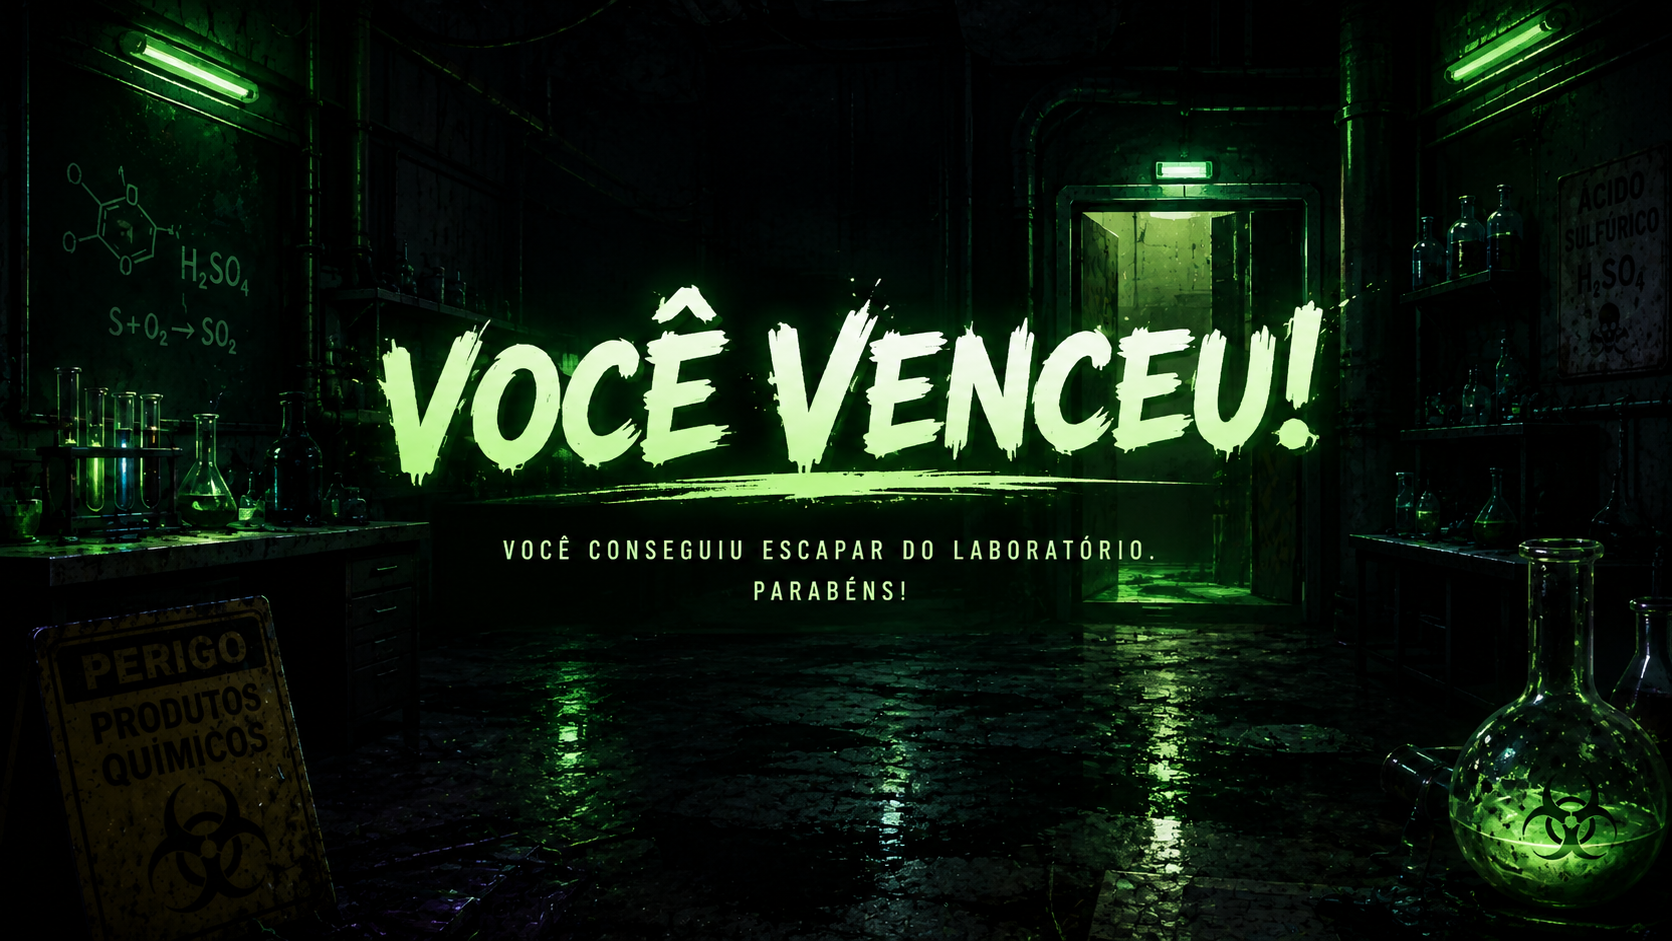
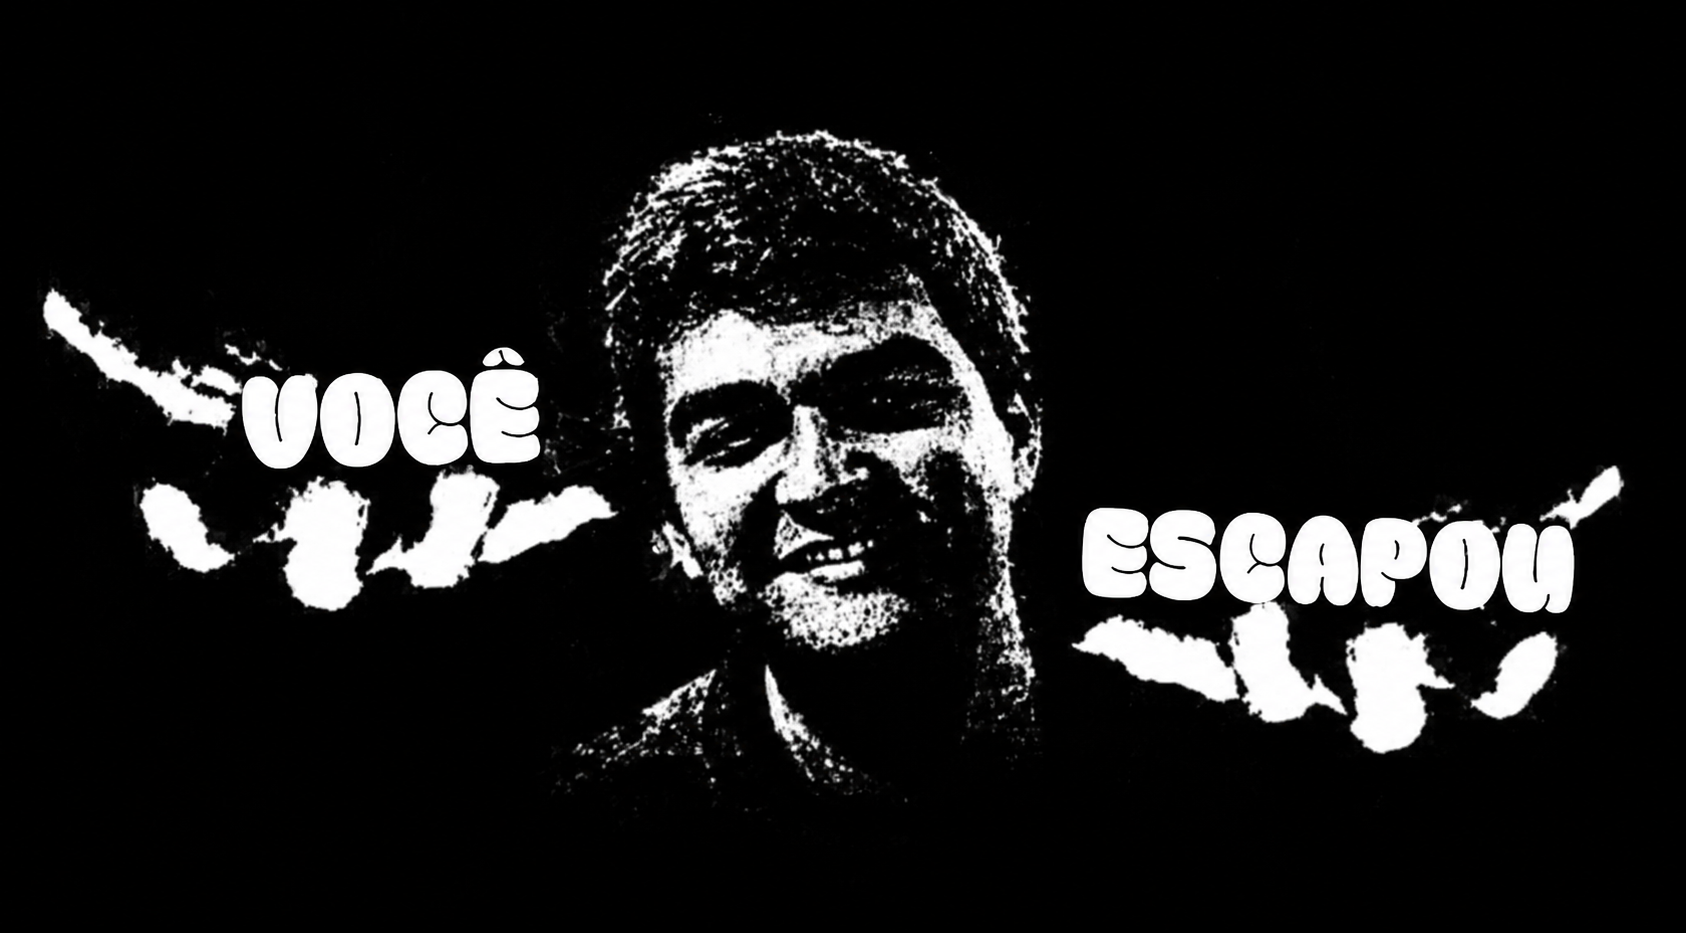
adicionando a tela de vitória, mais elementos químicos e posicionando-os em seus lugares

diff --git a/jogo/sistema_itens_mistura/icones.py b/jogo/sistema_itens_mistura/icones.py
@@ -16,6 +16,10 @@ MAPA_ARQUIVOS = {
     "Sódio": "sodio.png",
     "Água": "agua.png",
     "Bromo": "bromo.png",
+    "Ferro": "ferro.png",
+    "Rubídio": "rubidio.png",
+    "Nitrogênio": "nitrogenio.png",
+    "Aldeído": "aldeido.png",
     "Dióxido de Enxofre": "dioxidoEnxofre.png",
     "Trióxido de Enxofre": "trioxidoEnxofre.png",
     "Ácido Sulfúrico": "AcidoSulfurico.png",
@@ -27,11 +31,33 @@ def _criar_icone_padrao(tamanho):
     pygame.draw.rect(superficie, (150,150,150), (0,0, tamanho, tamanho), border_radius=6)
     return superficie
 
-def obter_icone(nome, tamanho=40):
+def _padronizar_icone(original, tamanho):
+    mascara = pygame.mask.from_surface(original)
+    area = mascara.get_bounding_rects()
+
+    if not area:
+        return _criar_icone_padrao(tamanho)
+
+    area = area[0]
+
+    icone = original.subsurface(area).copy()
+    tamanho_desenho = int(tamanho * 0.50)
+    largura, altura = icone.get_size()
+    escala = min(tamanho_desenho / largura, tamanho_desenho / altura)
+    nova_largura = max(1, int(largura * escala))
+    nova_altura = max(1, int(altura * escala))
+    icone = pygame.transform.smoothscale(icone, (nova_largura, nova_altura))
+    superficie = pygame.Surface((tamanho, tamanho), pygame.SRCALPHA)
+    x = (tamanho - nova_largura) //2 
+    y= (tamanho - nova_altura) // 2
+    superficie.blit(icone, (x, y))
+    return superficie
+
+def obter_icone(nome, tamanho=40, reduzir=True):
     #retorna icone correspondente ao item
     #se o icone ja tiver sido carregado anteriormente, usa a versao armazenada no cache
     #caso o item não possua imagem cadastrada, retorna um ícone padrão
-    chave = (nome, tamanho)
+    chave = (nome, tamanho, reduzir)
 
     if chave in _cache_icones:
         return _cache_icones[chave]
@@ -53,7 +79,10 @@ def obter_icone(nome, tamanho=40):
             superficie = _criar_icone_padrao(tamanho)
 
         else:
-            superficie = pygame.transform.smoothscale(original,(tamanho, tamanho))
+            if reduzir:
+                superficie = _padronizar_icone(original, tamanho)
+            else:
+                superficie = pygame.transform.smoothscale(original, (tamanho, tamanho))
 
     _cache_icones[chave] = superficie
 

diff --git a/jogo/game.py b/jogo/game.py
@@ -87,16 +87,8 @@ class Game:
         )
 
         self.itens = [
-            Item("Hidrogênio", 290, 300),
-            Item("Oxigênio", 520, 510),
-            Item("Oxigênio", 352, 644),
-            Item("Oxigênio", 296, 236),
-            Item("Enxofre", 700, 340),
-            Item("Cloro", 180, 420),
-            Item("Carbono", 500, 420),
-            Item("Sódio", 650, 350),
-            Item("Bromo", 164, 168),
-            Item("Ferro", 700, 850),
+            Item(nome, x, y)
+            for nome,x,y in self.mapa.itens
         ]
 
         self.raio_luz = 110
@@ -182,6 +174,12 @@ class Game:
 
                     else:
                         self.coletar_item()
+
+                elif evento.key == pygame.K_q:
+                    if self.estado != Estado.JOGANDO:
+                        continue
+
+                    self.dropar_item()
 
 
     def atualizar(self, dt):
@@ -324,6 +322,15 @@ class Game:
                 if self.player.inventario.adicionar_item(item):
                     item.coletado = True
                 return
+
+    def dropar_item(self):
+        if not self.player.inventario.itens:
+            return
+
+        item = self.player.inventario.itens[-1]
+        self.player.inventario.remover_item(item)
+        item.coletado = False
+        item.rect.center = self.player.rect.center
 
     def iniciar_vitoria(self):
         self.estado = Estado.VITORIA

diff --git a/jogo/hud.py b/jogo/hud.py
@@ -38,9 +38,9 @@ class HUD:
         )
 
         self.posicoes_slots = [
-            (54, 61),
-            (110, 61),
-            (166, 61)
+            (55, 64),
+            (110, 64),
+            (165, 64)
         ]
 
         self.tamanho_icone = 48
@@ -101,7 +101,7 @@ class HUD:
 
             slot_x, slot_y = self.posicoes_slots[i]
 
-            icone = obter_icone(item.nome, tamanho=self.tamanho_icone)
+            icone = obter_icone(item.nome, tamanho=self.tamanho_icone, reduzir=False)
 
             icone_x = (x_inventario + slot_x - self.tamanho_icone // 2)
 

diff --git a/jogo/map.py b/jogo/map.py
@@ -9,6 +9,12 @@ class Map:
         caminho_tmx = os.path.join(BASE_DIR, "assets", "cenario", "laboratorio", "laboratorio-tiled.tmx")
         self.tmx = pytmx.load_pygame(caminho_tmx)
 
+        self.itens = []
+
+        camada_itens = self.tmx.get_layer_by_name("itens")
+        for obj in camada_itens:
+            self.itens.append((obj.name, obj.x, obj.y))
+
         #tamanho do mundo agora vem direto do próprio mapa (tiles x tamanho do tile)
         self.largura = self.tmx.width * self.tmx.tilewidth
         self.altura = self.tmx.height * self.tmx.tileheight

diff --git a/jogo/sistema_itens_mistura/item.py b/jogo/sistema_itens_mistura/item.py
@@ -5,7 +5,8 @@ class Item:
     #aparece no mapa e é coletado pelo jogador
     def __init__(self, nome, x, y, tamanho=48):
         self.nome = nome
-        self.rect = pygame.Rect(x, y, tamanho, tamanho)
+        self.rect = pygame.Rect(0, 0, tamanho, tamanho)
+        self.rect.center = (x, y)
         self.coletado = False
         self.imagem = obter_icone(nome, tamanho=tamanho)
 

diff --git a/jogo/sistema_itens_mistura/inventario.py b/jogo/sistema_itens_mistura/inventario.py
@@ -5,11 +5,9 @@ class Inventario:
 
     def adicionar_item(self, item):
         if self.esta_cheio():
-            print("Inventário cheio!")
             return False
     
         self.itens.append(item)
-        print(f"{item.nome} adicionado ao inventário")
         return True
     
     def remover_item(self, item):

diff --git a/jogo/sistema_itens_mistura/porta.py b/jogo/sistema_itens_mistura/porta.py
@@ -11,7 +11,7 @@ class Porta(ObjetoMapa):
 
         if tem_item_final:
             self.trancada = False
-            game.iniciar_cena_vitoria()
+            game.iniciar_vitoria()
         else:
             print("A porta está trancada. Falta algo...")
 
